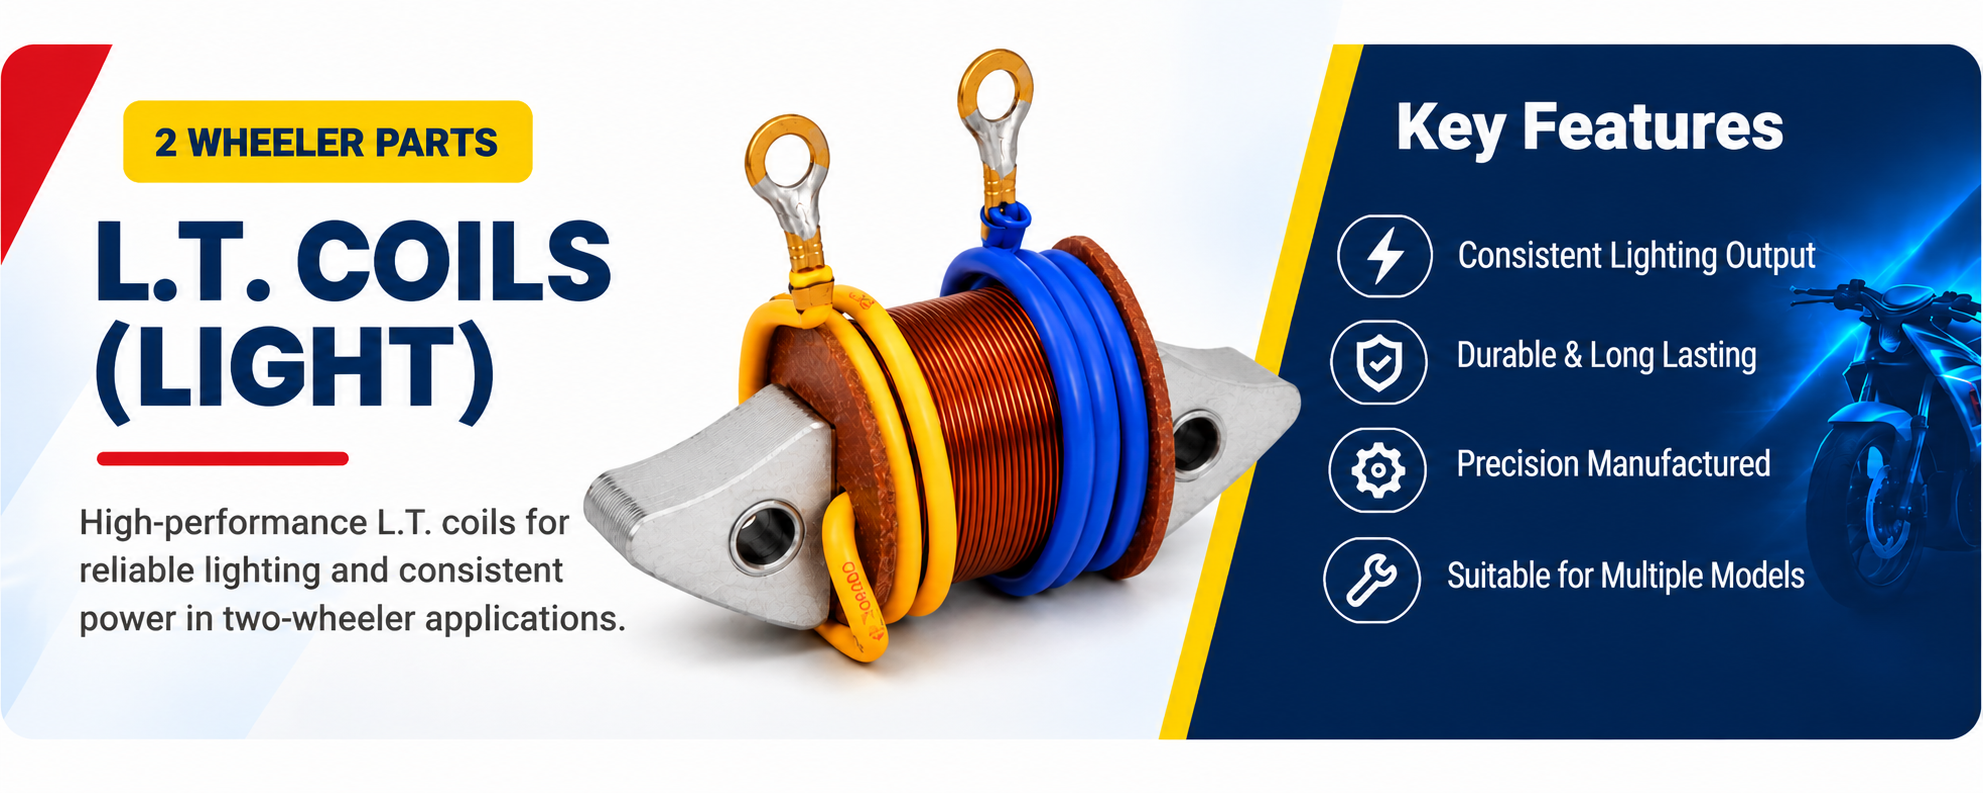
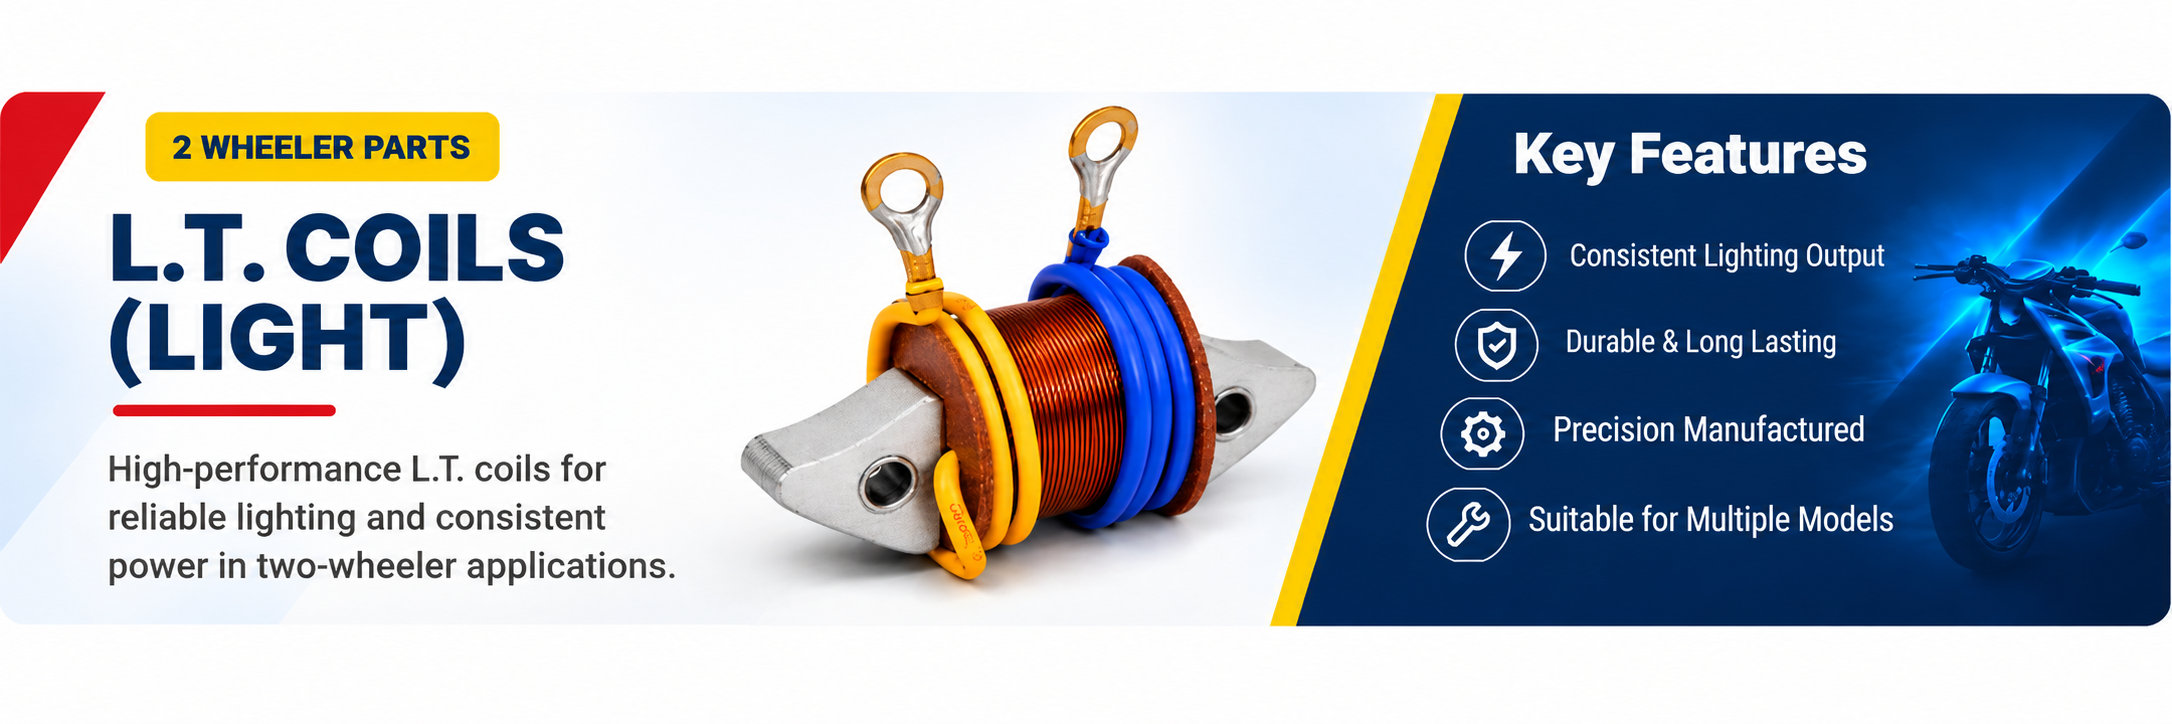
Fix ORADO charging coil product showcase

diff --git a/src/components/CategoryDetailPage.tsx b/src/components/CategoryDetailPage.tsx
@@ -135,7 +135,11 @@ function CategoryDetailPage({ slug }: CategoryDetailPageProps) {
     <main className="min-h-screen bg-gray-50 pb-20">
 
       {/* BREADCRUMBS */}
-      <nav className="container-max py-5">
+      <nav
+        className={`container-max py-5 ${
+          isLtCoilPage ? 'max-[639px]:min-h-20' : ''
+        }`}
+      >
         <ul className="flex flex-wrap items-center gap-2 text-xs font-medium text-gray-400">
           <li>
             <a href="#home" className="hover:text-brand-red">
@@ -164,7 +168,13 @@ function CategoryDetailPage({ slug }: CategoryDetailPageProps) {
       {/* 1. CHARGING COIL HERO BANNER */}
       {heroBannerImage && (
         <section className="container-max mt-2">
-          <div className="overflow-hidden rounded-2xl bg-white shadow-sm">
+          <div
+            className={`overflow-hidden rounded-2xl ${
+              isLtCoilPage
+                ? 'aspect-[2172/558]'
+                : 'bg-white shadow-sm'
+            }`}
+          >
             <img
               src={heroBannerImage}
               alt={
@@ -172,7 +182,11 @@ function CategoryDetailPage({ slug }: CategoryDetailPageProps) {
                   ? 'ORADO L.T. Coils (Light) Product Feature Banner'
                   : 'ORADO 2 Wheeler Charging Coil Source - Key Features'
               }
-              className="block h-auto w-full object-contain"
+              className={`block w-full ${
+                isLtCoilPage
+                  ? 'h-full object-cover object-center'
+                  : 'h-auto object-contain'
+              }`}
               fetchPriority="high"
             />
           </div>
@@ -281,7 +295,7 @@ function CategoryDetailPage({ slug }: CategoryDetailPageProps) {
             {/* PRODUCT DETAILS */}
             <div
               className={`flex flex-col justify-start rounded-2xl border border-gray-200 bg-white p-6 shadow-sm md:p-9 ${
-                isLtCoilPage ? 'min-h-[48rem] lg:min-h-[45rem]' : ''
+                isLtCoilPage ? 'min-h-[48rem] lg:min-h-[719px]' : ''
               }`}
             >
 
